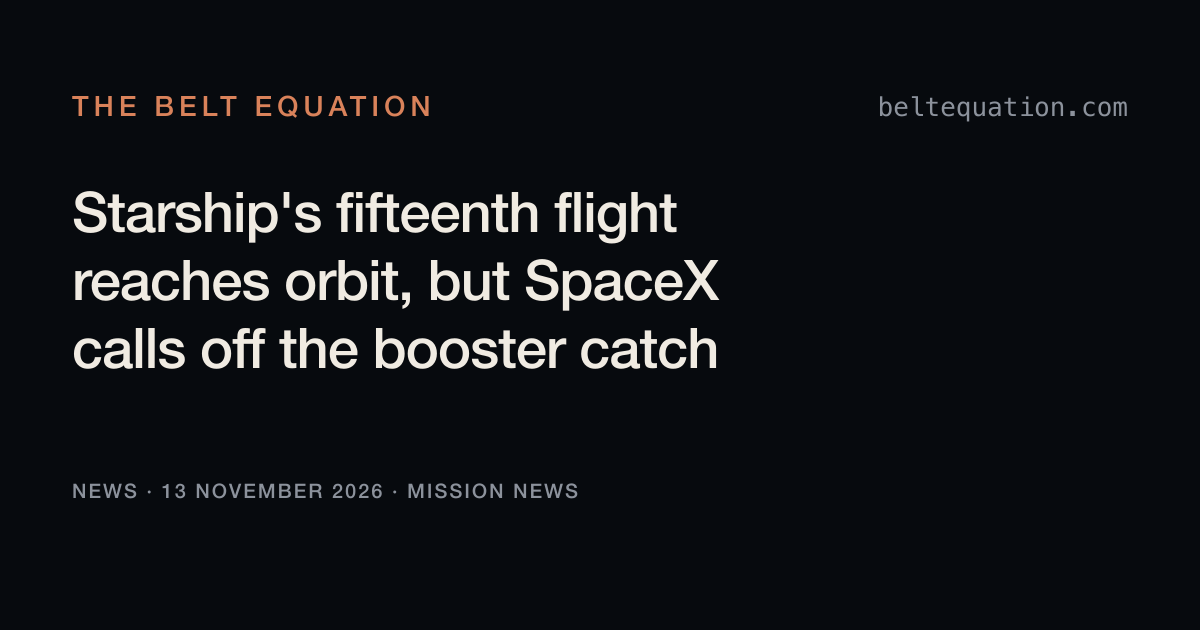
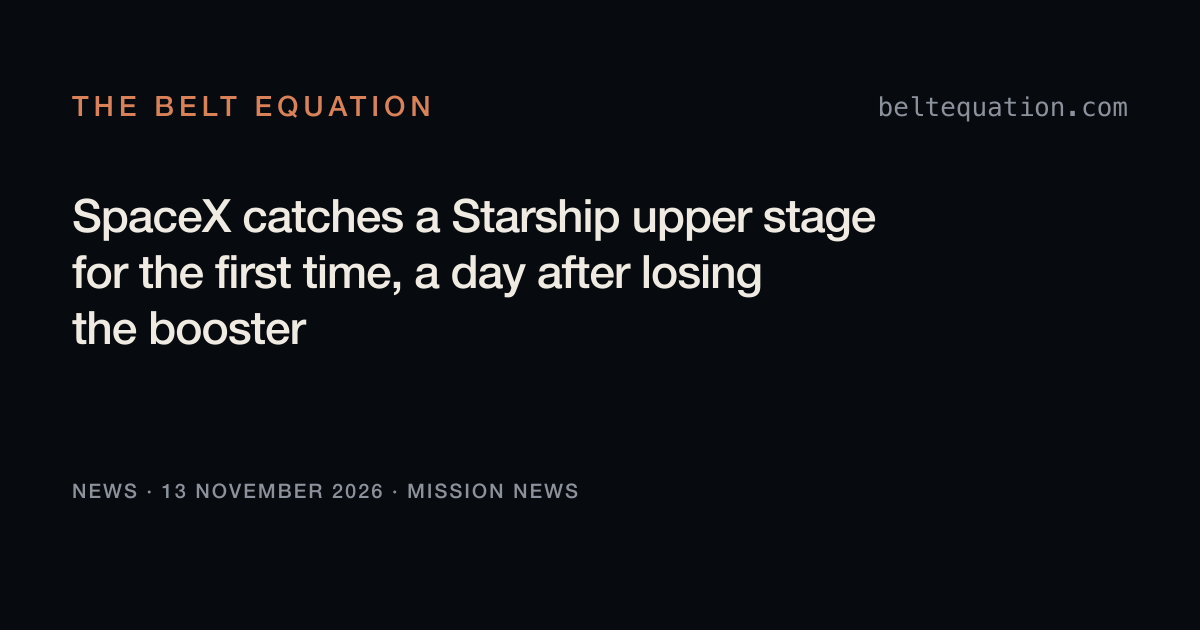
News: Starship Flight 15 post retitled to lead with the catch, on John's word (2026-11-14; address unchanged; not merged)

Changed region(s): [[0.0617, 0.3016, 0.74, 0.6032]]

diff --git a/docs/news/2026-11-13-starship-flight-15-checks.md b/docs/news/2026-11-13-starship-flight-15-checks.md
@@ -137,3 +137,21 @@ moves. Proposed, not applied: a held-steady ledger entry for this flight, like t
 Flight 14, at Sunday's scan.
 
 Still owed: the title-rules check, the Voice Calibration and Cold Reader passes, and a picture.
+
+## Title changed 2026-11-14 (on a branch, for the master session to merge)
+
+John's words, as his master session passed them on: "merge 78 with the new title". Pull request 78 had
+already been merged and published at John's "Merge and publish" earlier the same afternoon, so the
+title change is its own pull request. The title goes from "Starship's fifteenth flight reaches orbit, but SpaceX calls off the booster catch" to "SpaceX catches a Starship upper stage for the first time, a day after losing the booster". The post's address and
+file name stay as they are: the post is public at that address, and the site takes the address from the
+file name, not from the title.
+
+Against the title rules (`sentient-horizons/editorial/title-rules.md`, read 2026-11-14 on that
+repository's main line; it was not in the checked-out branch on launch night): rule 1, a stranger can
+say what the post is about from the title alone; rule 2, it names SpaceX and Starship; rule 3, no coined
+phrase; rule 4, a plain claim; rule 5 does not apply; rule 6 does not apply; rule 7, the Reddit title in
+the share kit says the same and more. No attention device. One thing the rules say that this goes
+against: "After publishing, the title and the address stay." This is a change to a published title, made
+on John's word the day after publishing, like the two exceptions the rules record; unlike them, the
+address is kept. Every claim in the title is in the post with its source: the catch and that it is the
+first (Space.com's live updates, CNBC), and the booster lost the day before (Space.com, CNBC).

diff --git a/site/src/content/news/2026-11-13-starship-flight-15-reaches-orbit-booster-catch-called-off.md b/site/src/content/news/2026-11-13-starship-flight-15-reaches-orbit-booster-catch-called-off.md
@@ -1,5 +1,5 @@
 ---
-title: "Starship's fifteenth flight reaches orbit, but SpaceX calls off the booster catch"
+title: "SpaceX catches a Starship upper stage for the first time, a day after losing the booster"
 date: 2026-11-13
 kind: mission-news
 missions: [starship]
